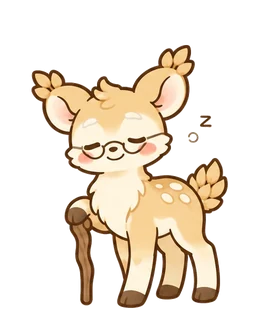
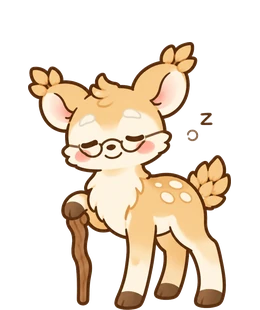
こむぎ（おとしより）の 絵 6まい を あし 4本 の 絵 に 差し替え

Changed region(s): [[0.0923, 0.1161, 0.8923, 1.0], [0.7077, 0.3484, 0.8308, 0.4645]]

diff --git a/index.html b/index.html
@@ -5,10 +5,10 @@
 <link rel="icon" type="image/png" sizes="64x64" href="favicon.png?v=3">
 <link rel="apple-touch-icon" href="apple-touch-icon.png?v=3">
 <link rel="manifest" href="manifest.json">
-<script src="stickers/stickers.js?v=202610280045"></script>
-<script src="nakama/nakama.js?v=202610280045"></script>
-<script src="clock/clock.js?v=202610280045"></script>
-<script src="drill/patterns.js?v=202610280045"></script>
+<script src="stickers/stickers.js?v=202610280751"></script>
+<script src="nakama/nakama.js?v=202610280751"></script>
+<script src="clock/clock.js?v=202610280751"></script>
+<script src="drill/patterns.js?v=202610280751"></script>
 <meta name="apple-mobile-web-app-title" content="けいさん">
 <link rel="preconnect" href="https://fonts.googleapis.com">
 <link rel="preconnect" href="https://fonts.gstatic.com" crossorigin>
@@ -3466,7 +3466,7 @@ body.course .levels.nrange .lv{padding:3px 2px;font-size:12px}
   const nkSp = id => NK_LIST.find(x=>x.id===id) || NK_LIST[0];
   // ちいさい だんかいは すこし おおきく みせる（そだって いる かんじは のこす）
   const NK_SCALE = [1.9, 1.5, 1.15, 1, 1, 1];
-  const NK_IMG_VER = "2";   // なかまの え を さしかえたら ばんごうを あげる（ふるい え が のこらない ように）
+  const NK_IMG_VER = "3";   // なかまの え を さしかえたら ばんごうを あげる（ふるい え が のこらない ように）
   const nkImgSrc = (id, stage, mood) => `nakama/${id}/${NK_STAGES[stage]}_${stage===0 && mood==="s" ? "n" : mood}.webp?v=${NK_IMG_VER}`;
   const dkDate = k => { const [y,m,d]=k.split("-").map(Number); return new Date(y, m-1, d); };
   const dkAdd = (k, n) => { const d=dkDate(k); d.setDate(d.getDate()+n); return dayKey(d); };

diff --git a/CHANGELOG.md b/CHANGELOG.md
@@ -11,6 +11,9 @@
 
 ## 2026-10-28
 
+### 修正（なかま）
+- **07:50** こむぎ（おとしより）の絵で、あしの数がおかしかった6枚（ふつう・しょんぼり・あさ・ひる2枚・ねむい）を、あしが4本の絵に差し替えました。
+
 ### 追加
 - **00:23** なかま ずかんで なかまを押すと、その子の「れきし」が見られるようにしました。たまごが届いた日・うまれた日・進化した日・旅立った日を年表のように並べ、いっしょにいた日数・解いた問題の数・正解の数・正解率も出します。
   - これまでに ずかんに載った子は、残っていること（月・どこまで育ったか・いなくなった日）だけを出します。これからの子は、全部 記録します。
